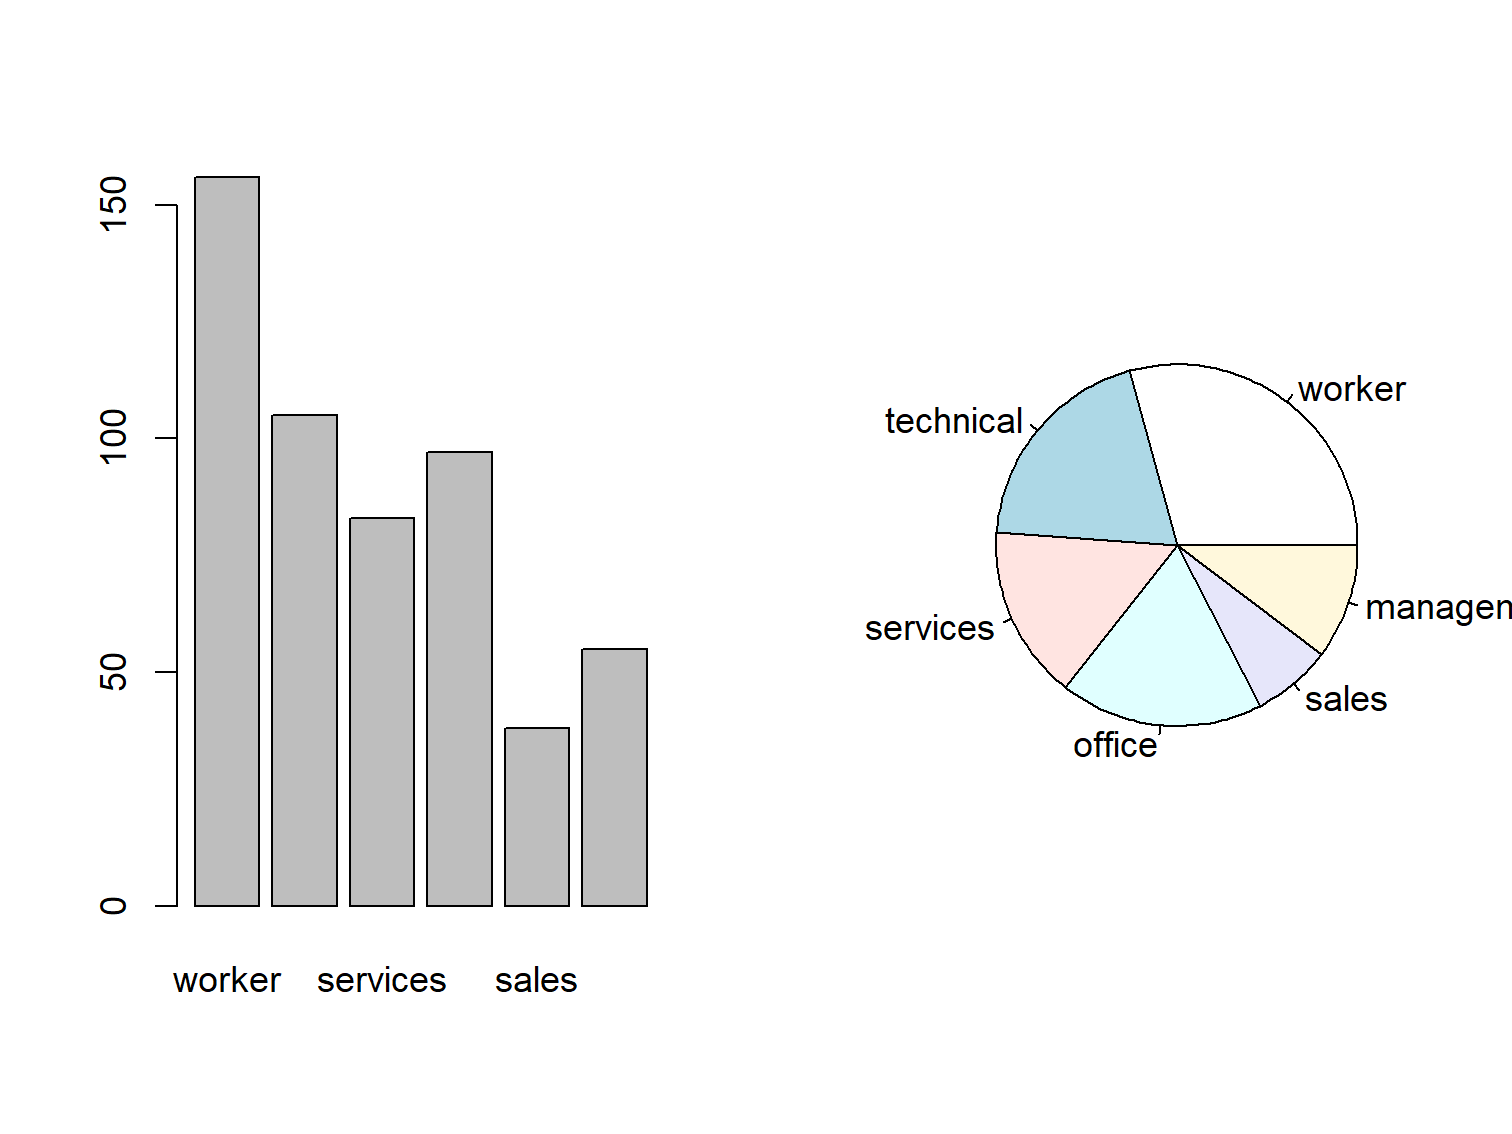
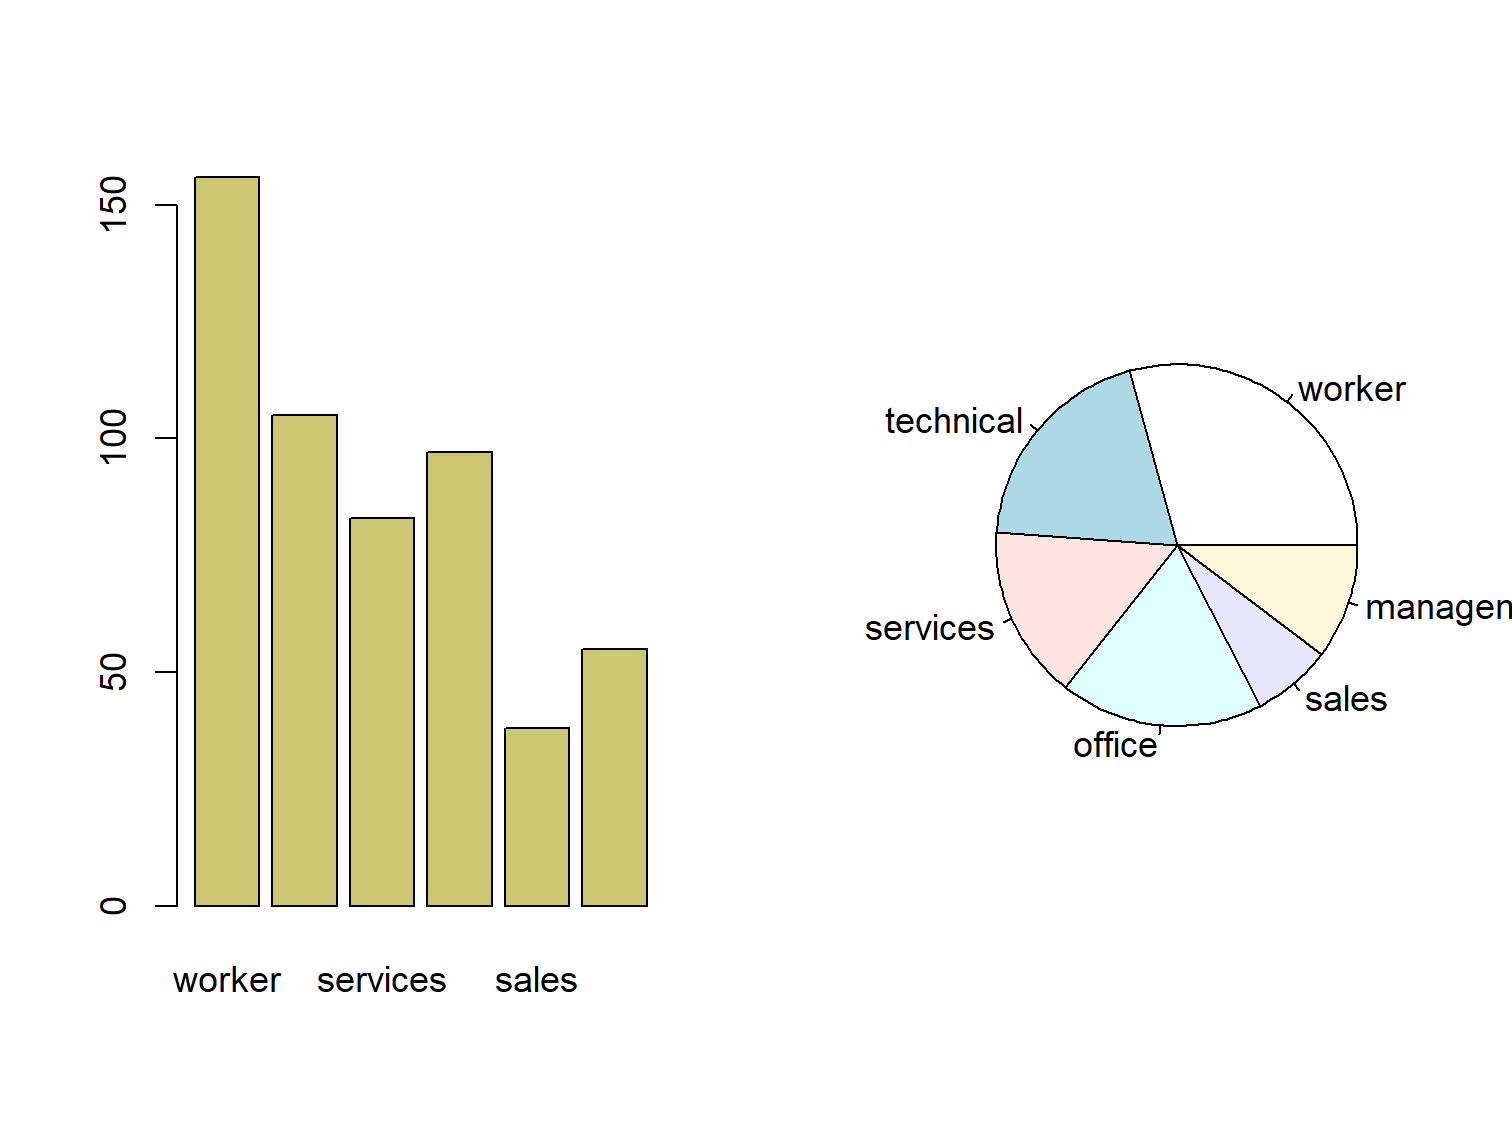
update sesi1

Changed region(s): [[0.1243, 0.1543, 0.4352, 0.8025]]

diff --git a/sesi1.html b/sesi1.html
@@ -10,7 +10,7 @@
     <link href="libs/animate.css-3.7.2/animate.xaringan.css" rel="stylesheet" />
     <link href="libs/tachyons-4.12.0/tachyons.min.css" rel="stylesheet" />
     <link href="libs/xaringanExtra-extra-styles-0.2.6/xaringanExtra-extra-styles.css" rel="stylesheet" />
-    <script type="application/json" id="xaringanExtra-editable-docid">{"id":"x1e8d8c45b7840f8a9a636bddb4d1613","expires":1}</script>
+    <script type="application/json" id="xaringanExtra-editable-docid">{"id":"c7f1c541a4a34305a820133edad3a0f6","expires":1}</script>
     <script src="libs/himalaya-1.1.0/himalaya.js"></script>
     <script src="libs/js-cookie-3.0.0/js.cookie.js"></script>
     <link href="libs/editable-0.2.6/editable.css" rel="stylesheet" />
@@ -221,18 +221,21 @@ prop.table(pekerjaan)
 #     worker  technical   services     office      sales management 
 # 0.29213483 0.19662921 0.15543071 0.18164794 0.07116105 0.10299625
 par(mfrow=c(1,2))
-barplot(pekerjaan) # membuat barplot data pekerjaan
+barplot(pekerjaan, col="khaki3") # membuat barplot data pekerjaan
 pie(pekerjaan) # membuat pie chart data pekerjaan
 ```
 
 &lt;img src="sesi1_files/figure-html/unnamed-chunk-7-1.png" width="504" style="display: block; margin: auto;" /&gt;
 ---
 
-```
+```r
+xtabs(~ gender + occupation, data = CPS1985)
 #         occupation
 # gender   worker technical services office sales management
 #   male      126        53       34     21    21         34
 #   female     30        52       49     76    17         21
+par(mfrow=c(1,1))
+plot(gender ~ occupation, data = CPS1985, col=c("blue", "gold"))
 ```
 
 &lt;img src="sesi1_files/figure-html/unnamed-chunk-8-1.png" width="504" style="display: block; margin: auto;" /&gt;
